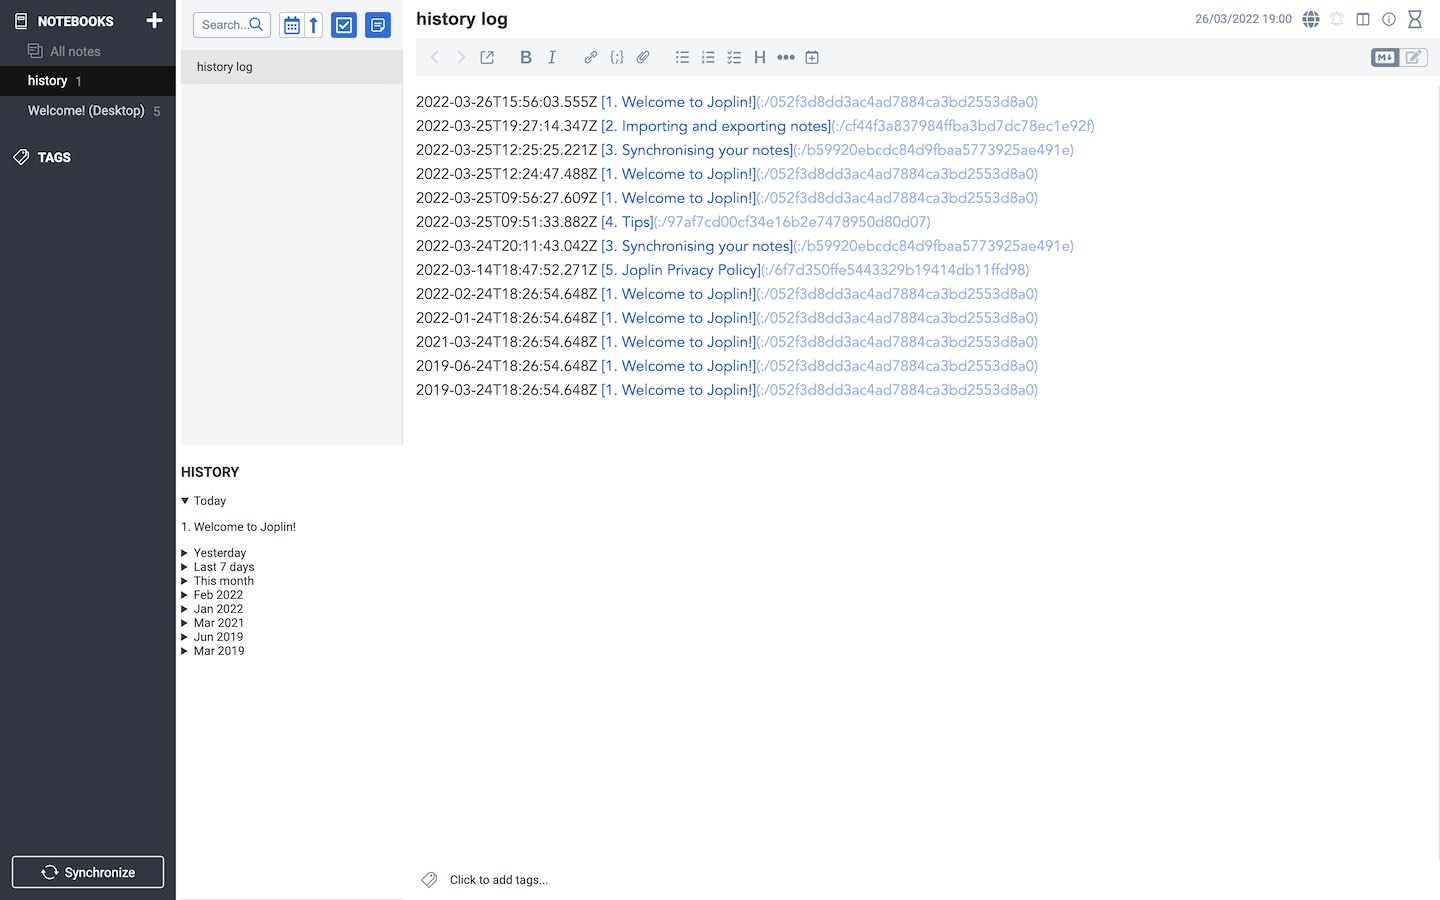
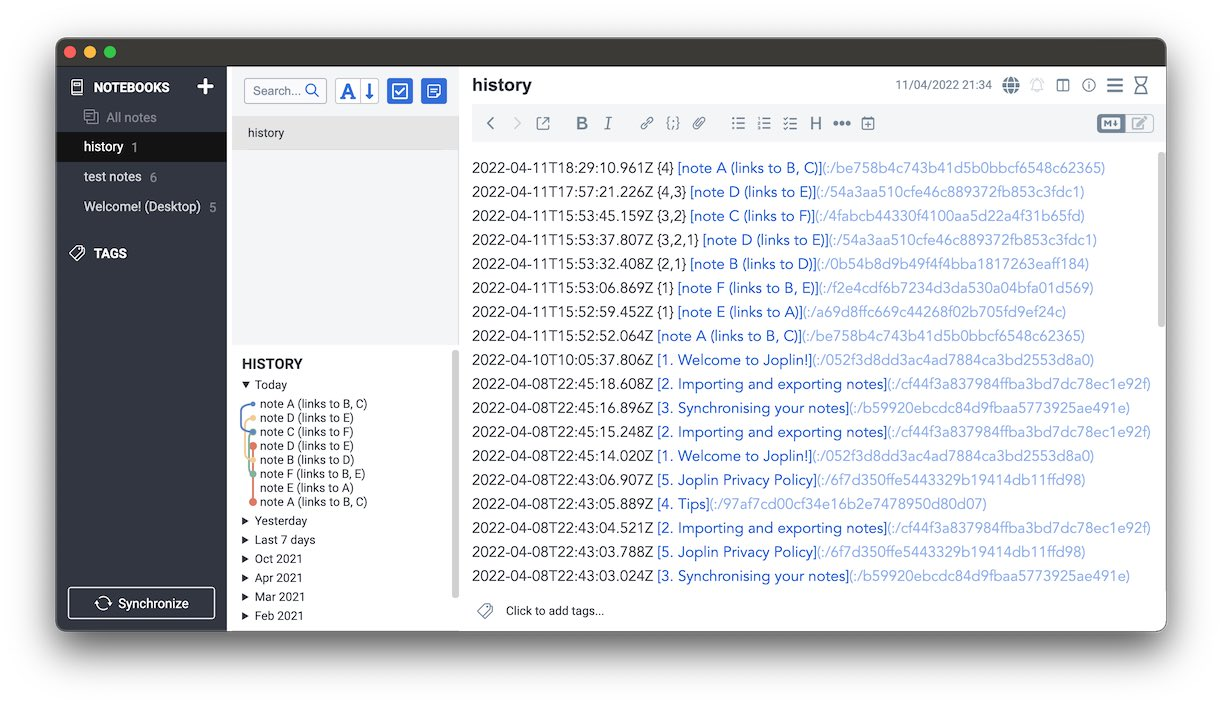
docs: README update

diff --git a/README.md b/README.md
@@ -1,6 +1,17 @@
 # The History Panel (Joplin Plugin)
 
 Discussion: https://discourse.joplinapp.org/t/plugin-the-history-panel/24705
+
+## Features
+
+- Saves your Joplin note browsing history in a Joplin note.
+- Displays note history in a dedicated panel.
+- Displays links between history items in a "thought trails" view.
+
+## Preview
+
+![app preview](img/preview.jpg)
+
 ## Installation
 
 1. Install the `History Panel` plugin from the Joplin app settings.
@@ -8,9 +19,6 @@ Discussion: https://discourse.joplinapp.org/t/plugin-the-history-panel/24705
 3. While this note is open, set your history note from the `Tools` menu --> `Set history note`.
 4. Set additional preferences in the `History Panel` settings dialog, such as the `Min seconds between history items` and the `Days of history to keep`.
 
-## Preview
-
-![app preview](img/preview.jpg)
 ## Use cases
 
 The above setup enables some interesting use cases.
@@ -19,3 +27,5 @@ The above setup enables some interesting use cases.
 - Sync and combine your history across devices.
 - Keep separate histories for work, different projects and so on, by maintaining multiple history notes and switching between them during app use.
 - [Backlinks / referrers](https://github.com/ylc395/joplin-plugin-note-link-system) will point back to all the visits of the currently viewed note that are documented in any of the history logs.
+
+A tutorial on aditional Joplin plugins for knowledge management: https://alondmnt.com/notes
